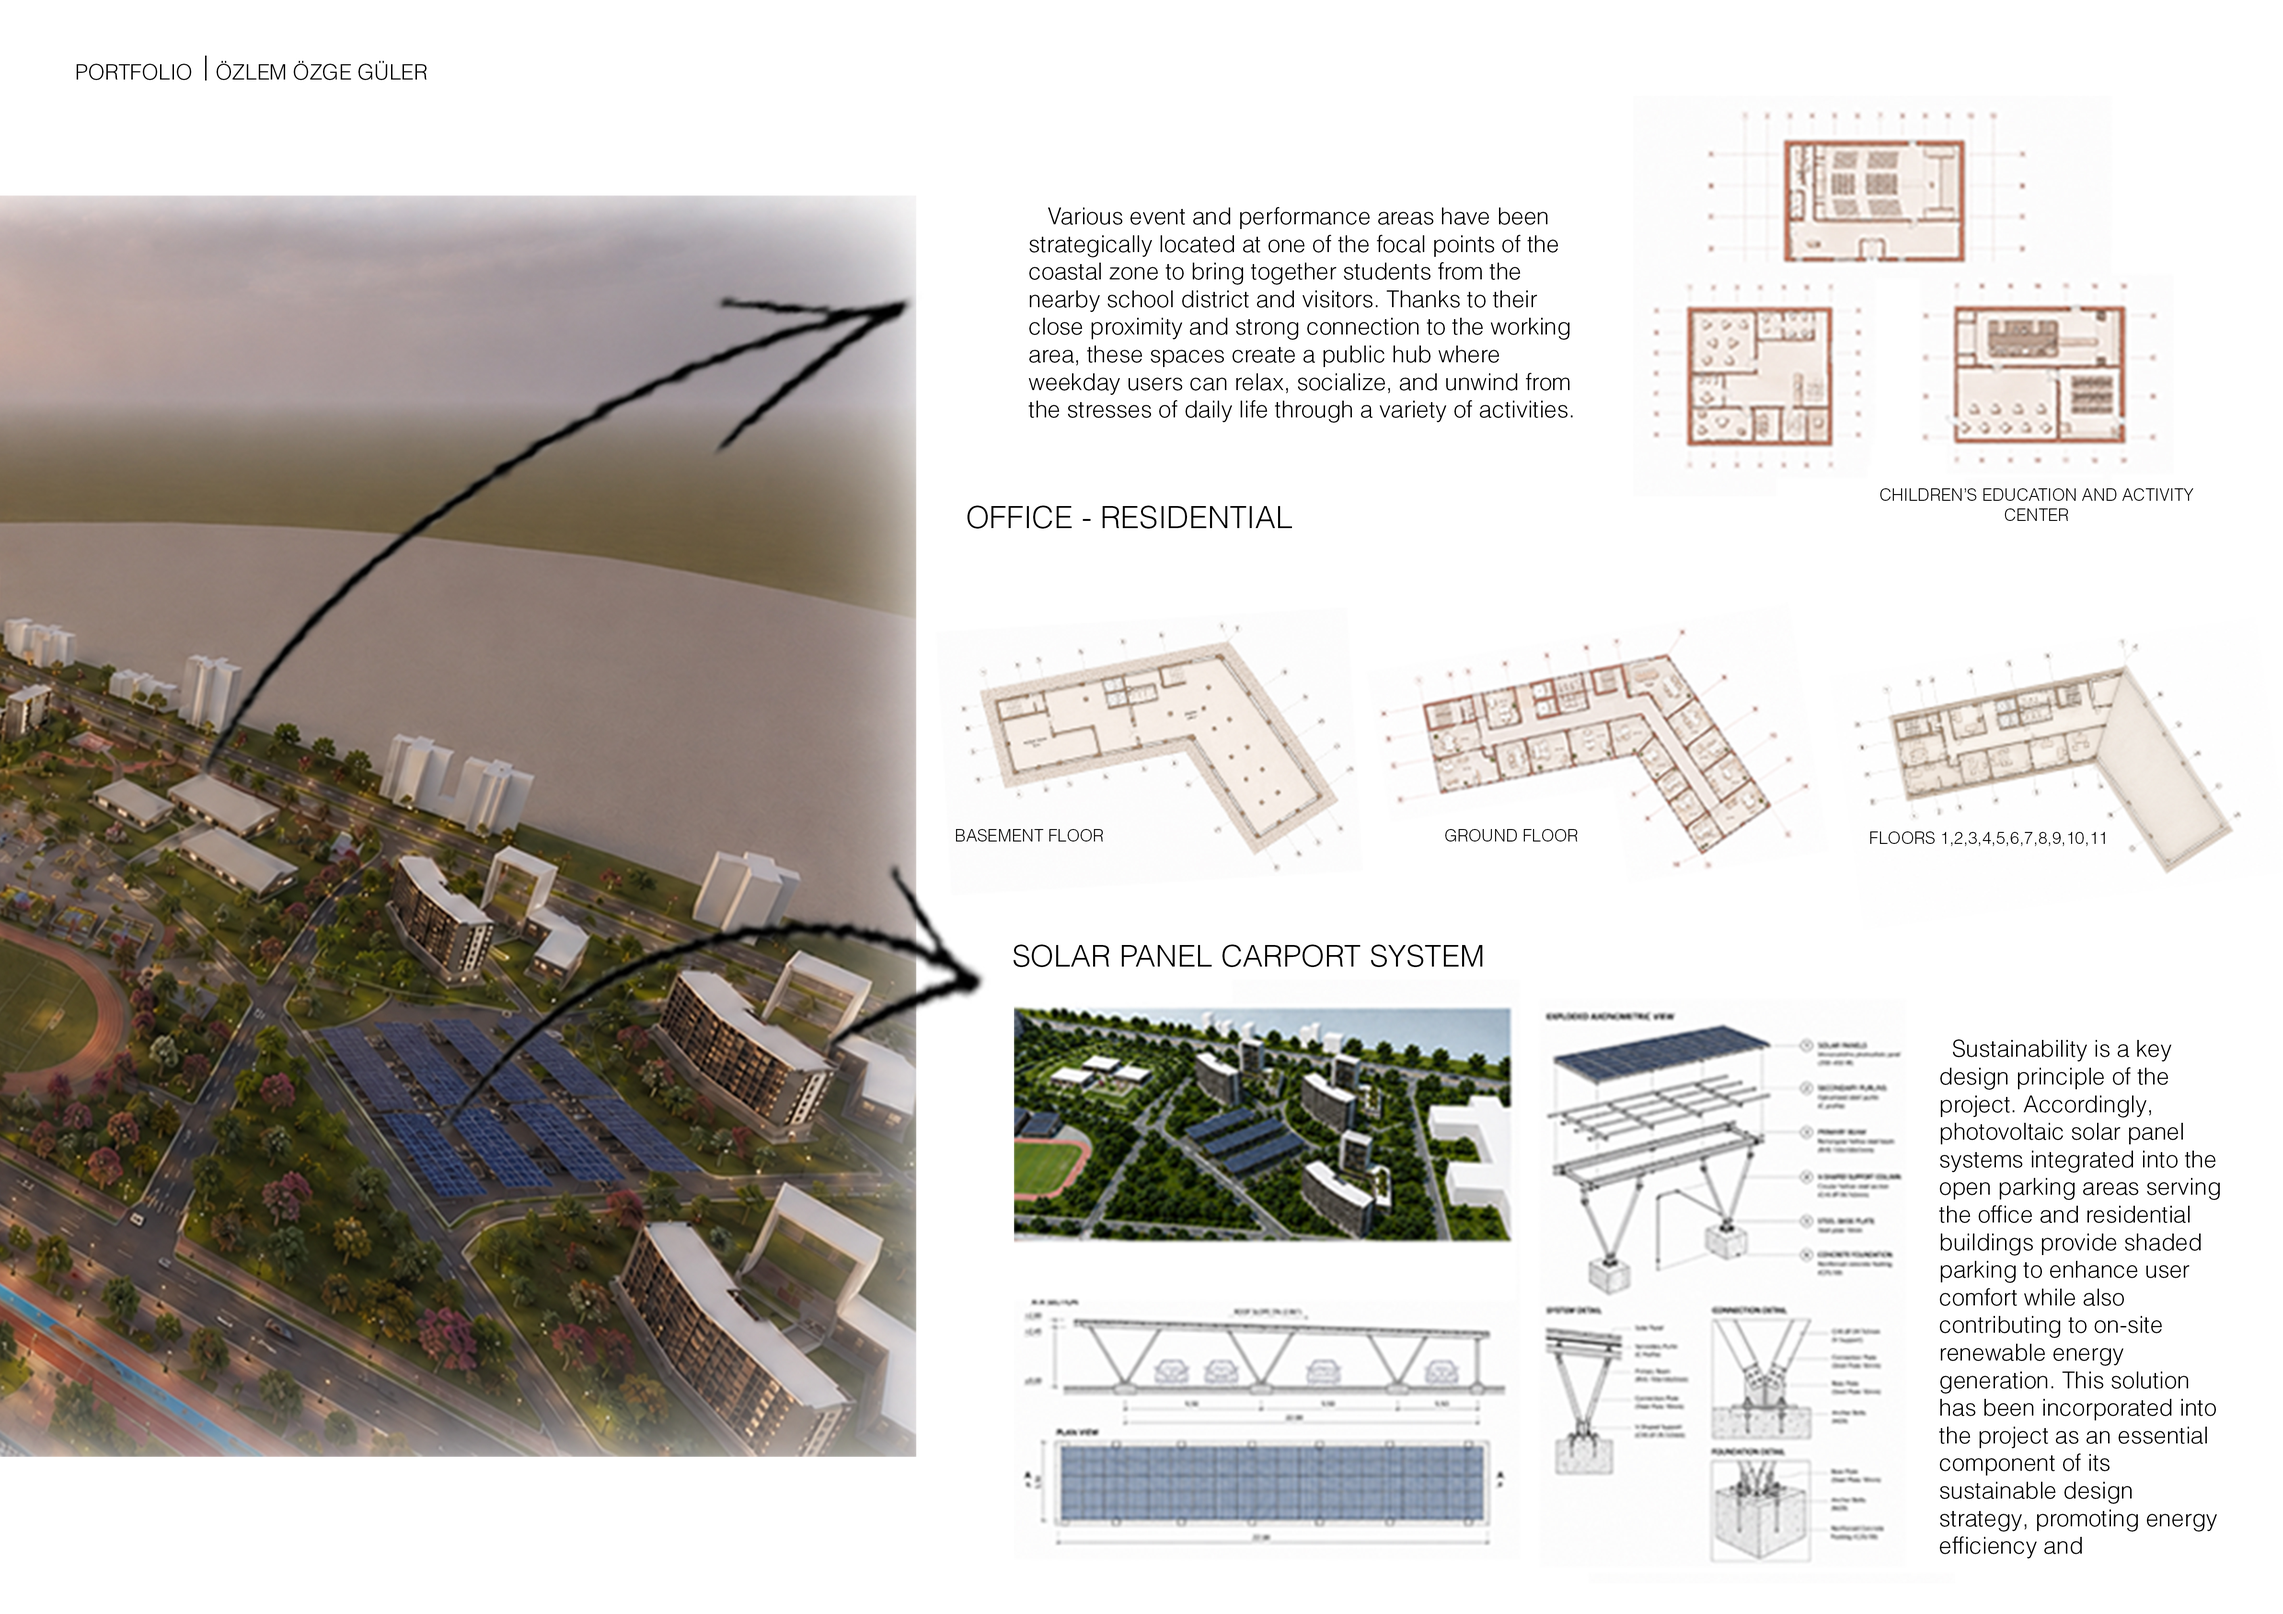
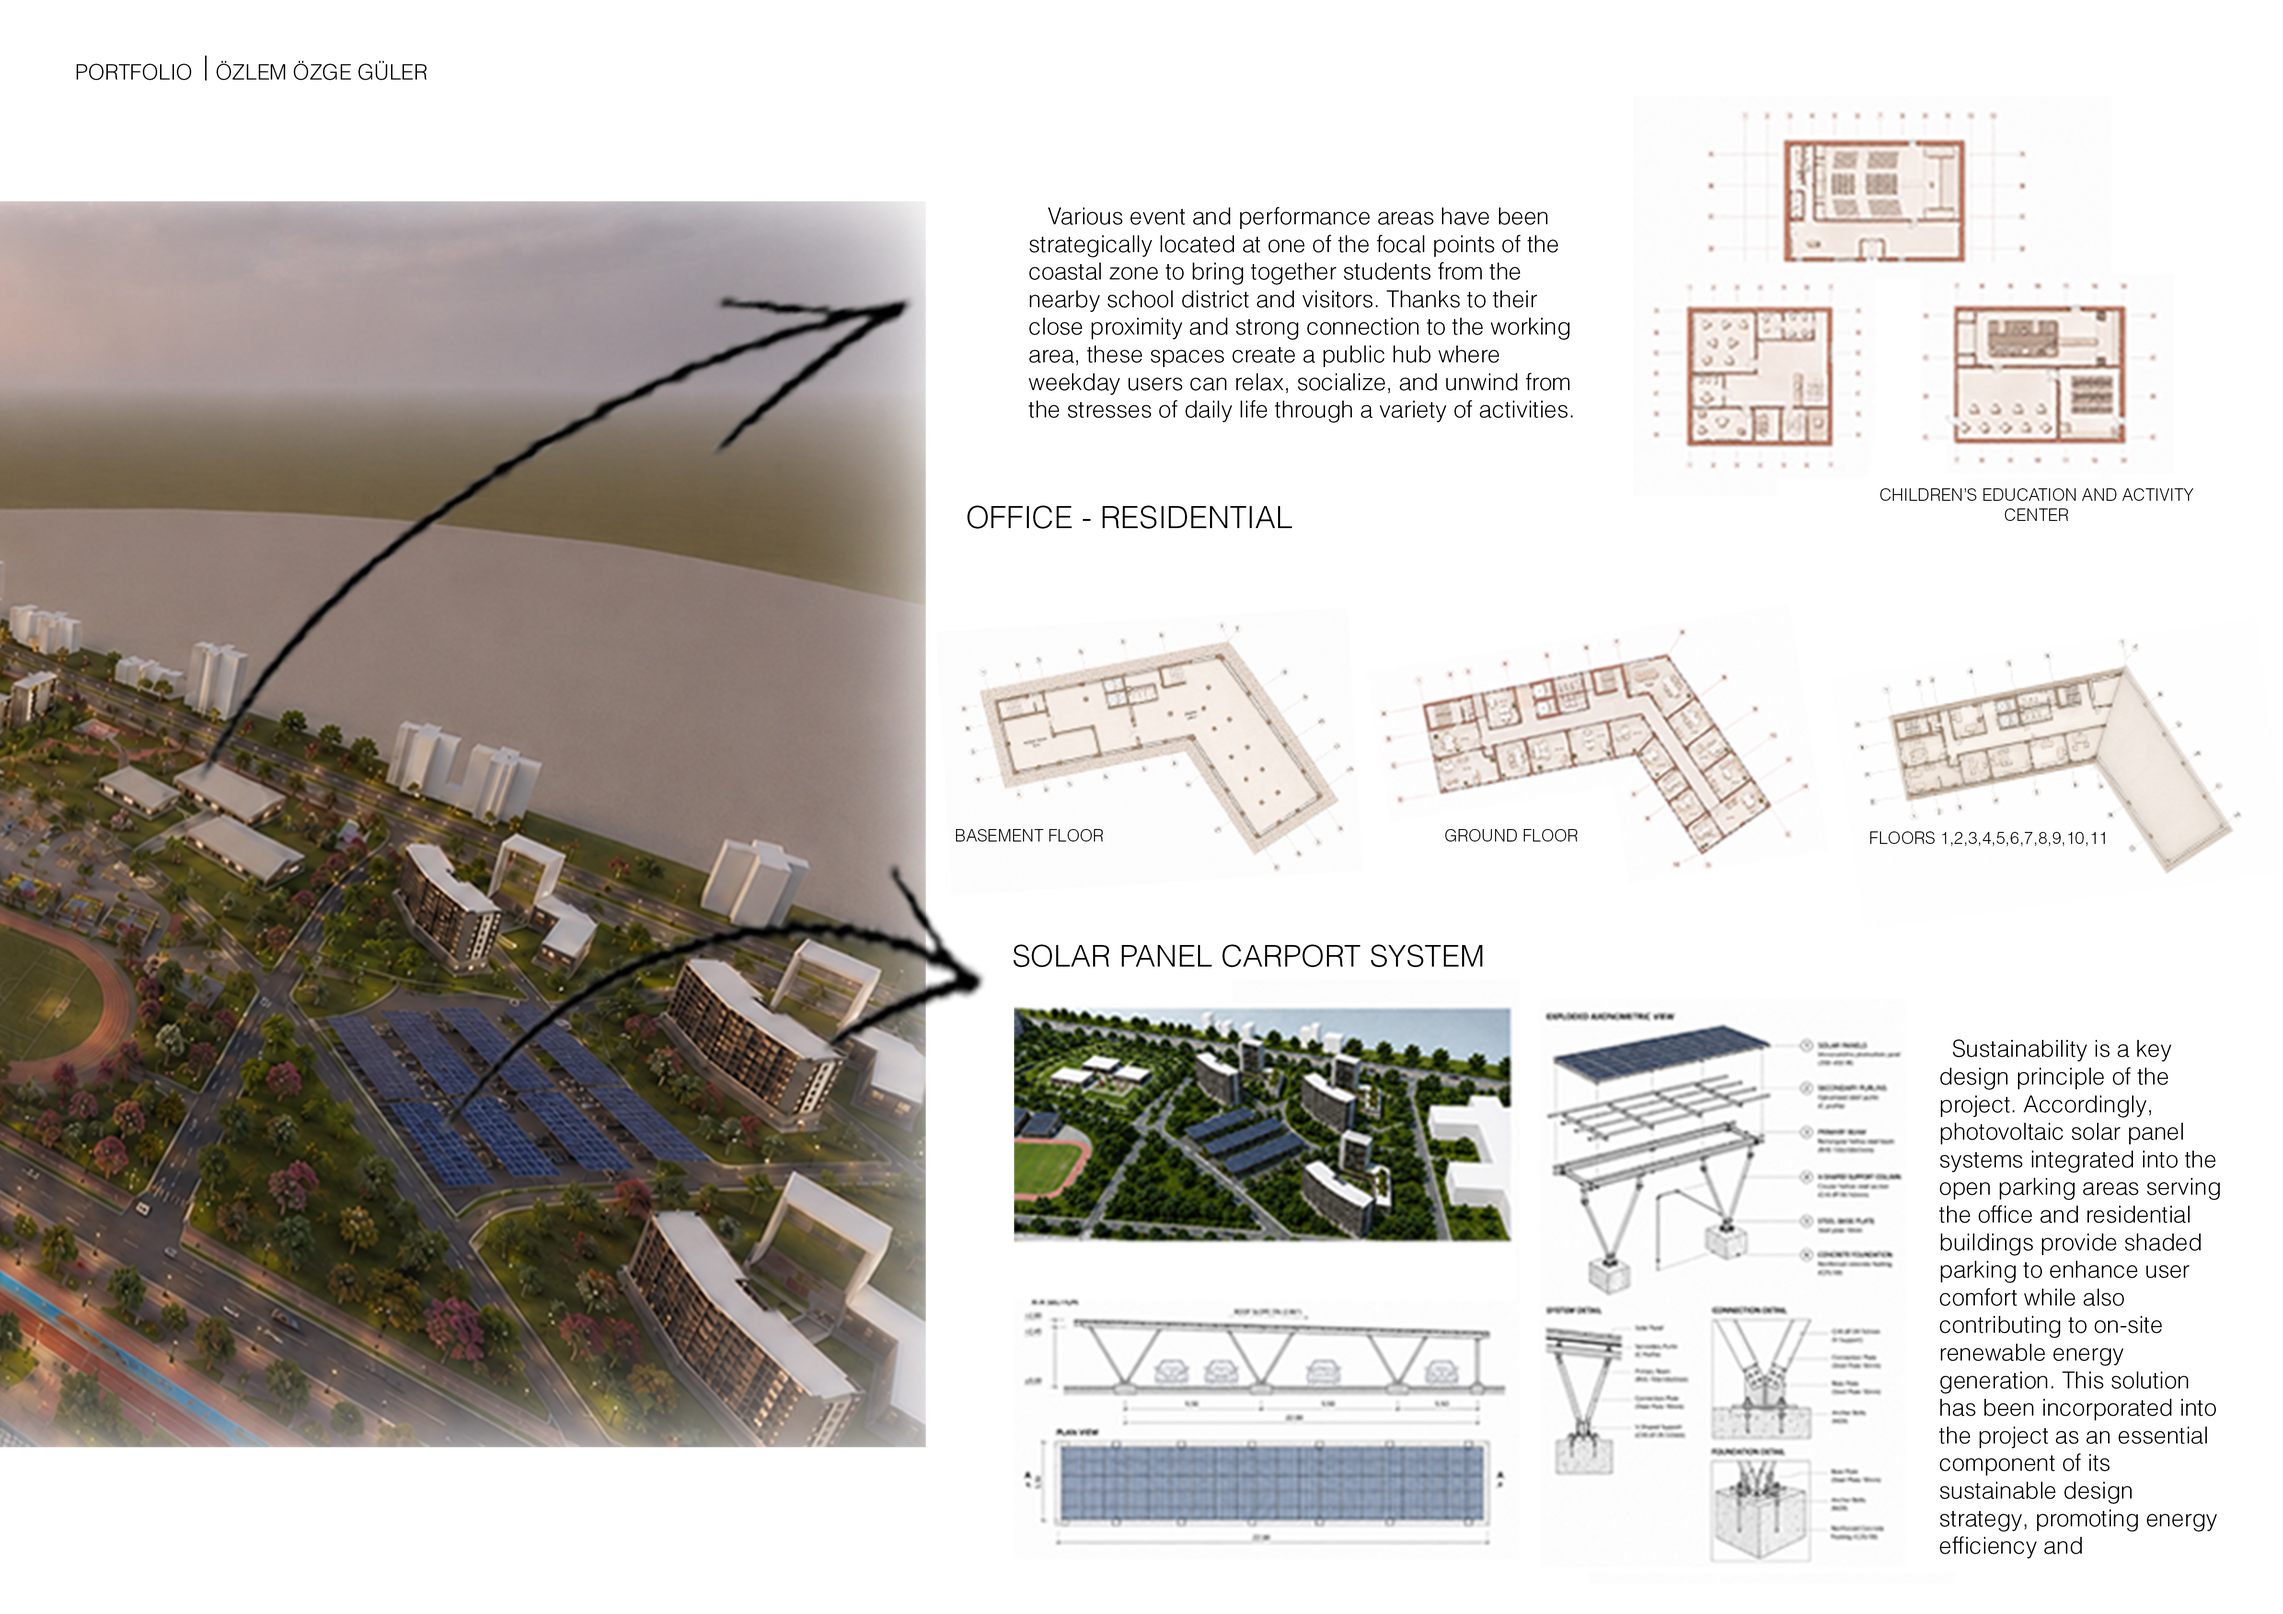
Fix deployment port binding to 3000 and build setup

diff --git a/server.ts b/server.ts
@@ -1,13 +1,9 @@
 import express from 'express';
 import path from 'path';
-import { fileURLToPath } from 'url';
-
-const __filename = fileURLToPath(import.meta.url);
-const __dirname = path.dirname(__filename);
 
 async function startServer() {
   const app = express();
-  const PORT = process.env.PORT ? parseInt(process.env.PORT, 10) : 3000;
+  const PORT = 3000;
 
   // Health check endpoint
   app.get('/api/health', (_req, res) => {
